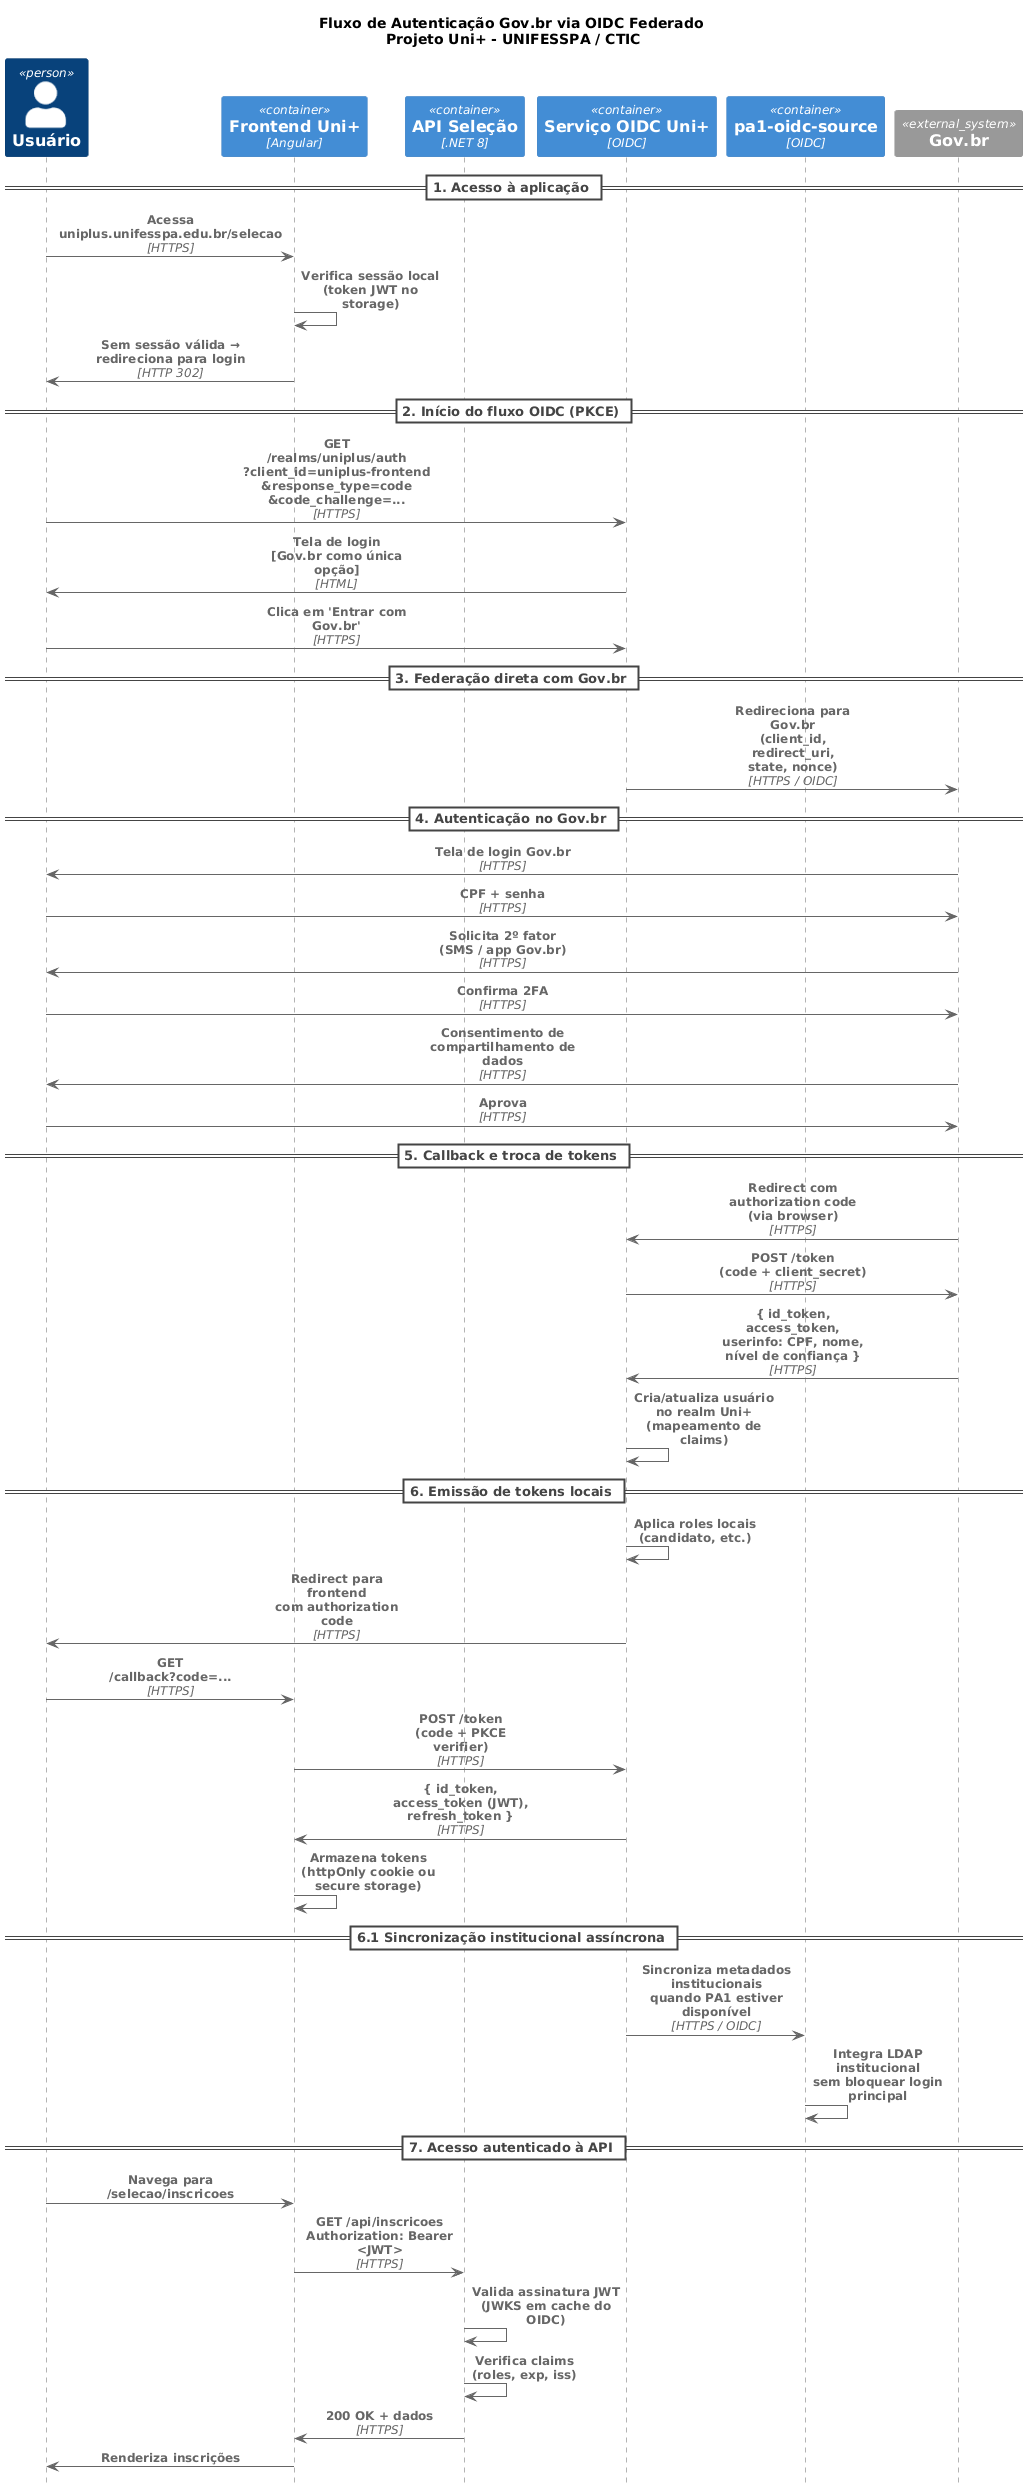
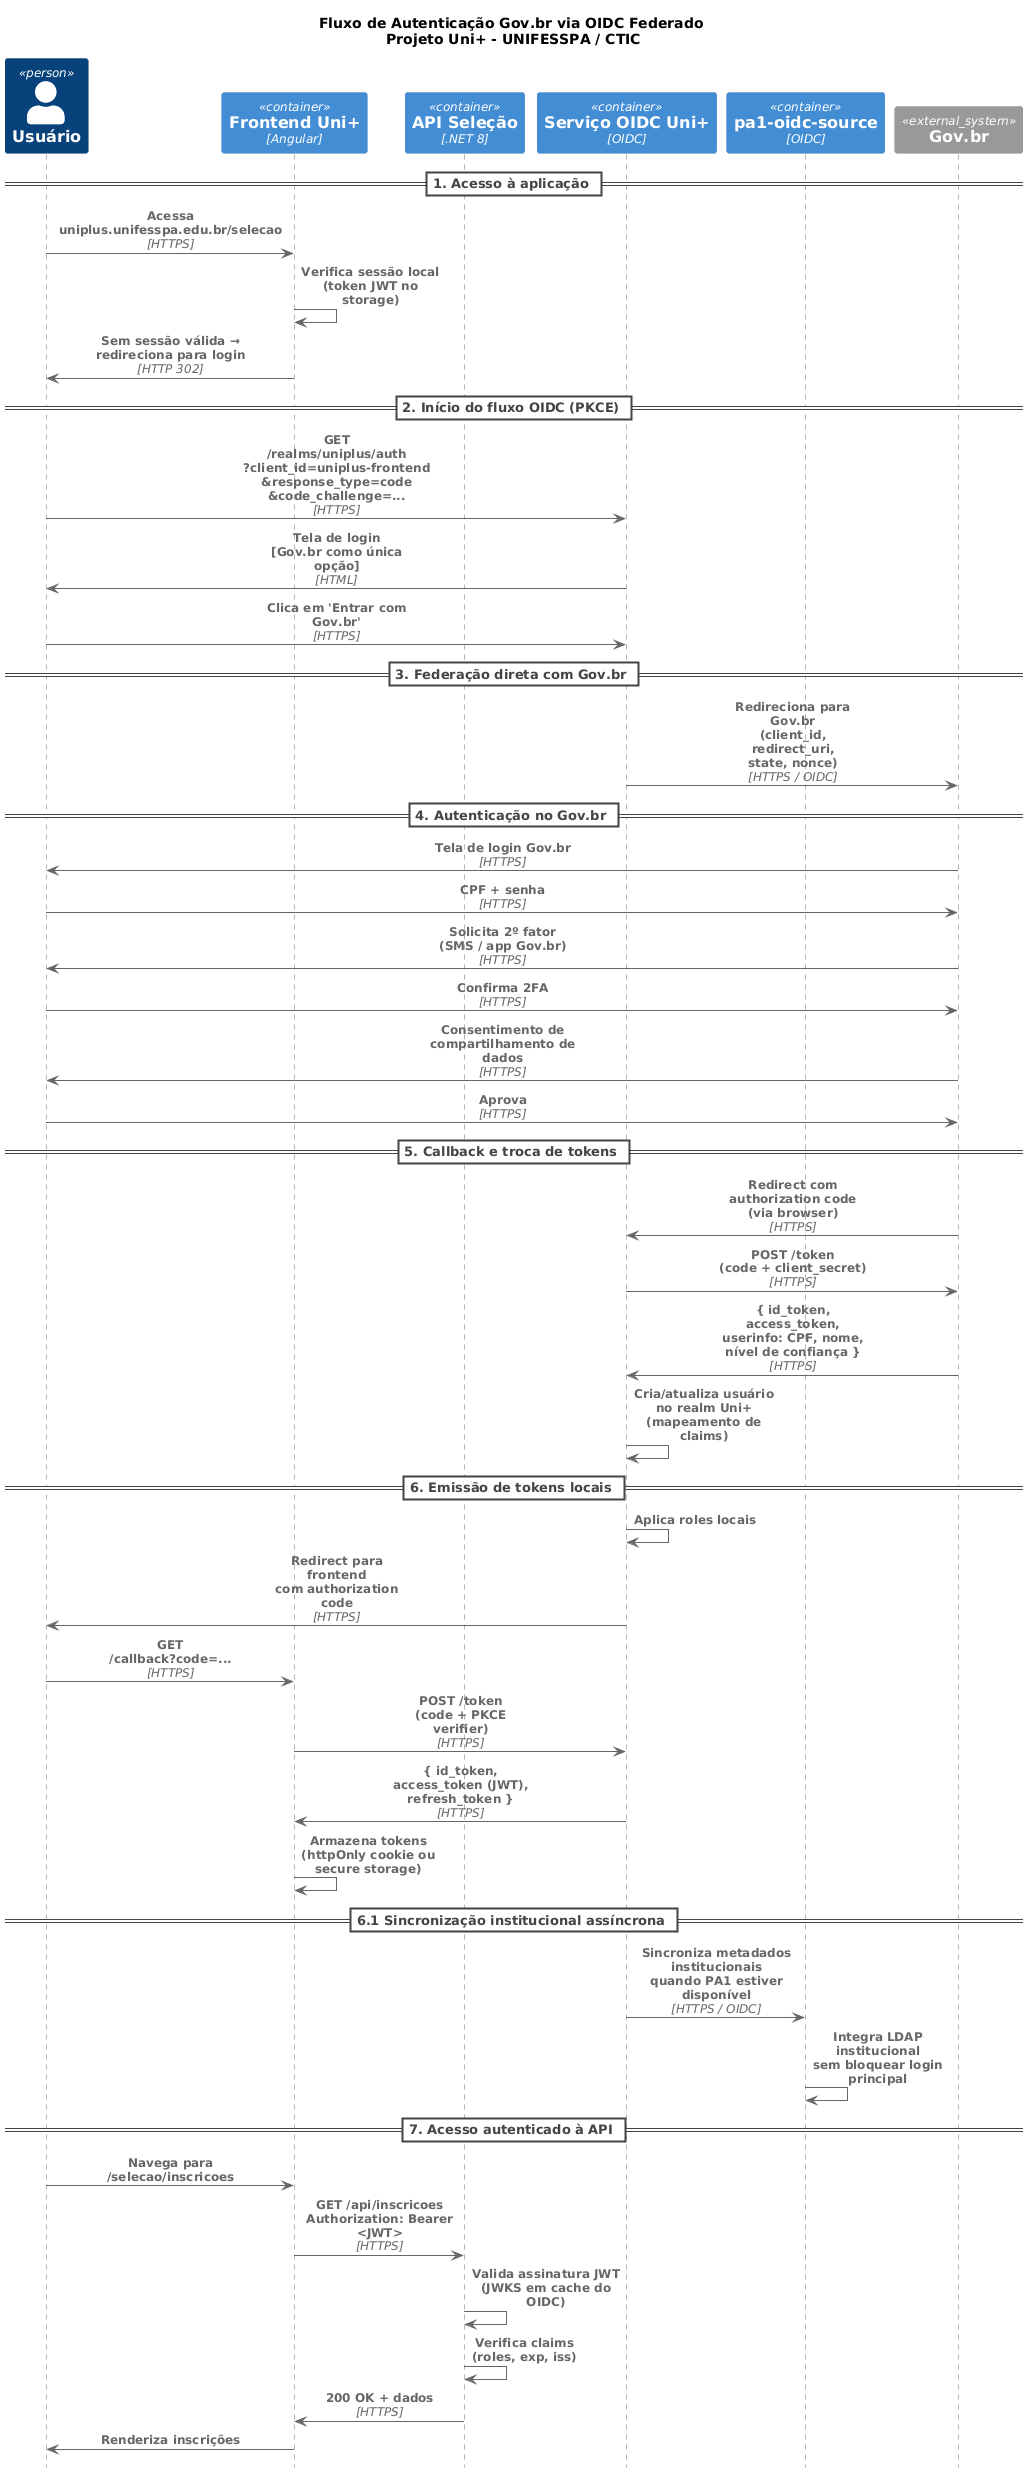
chore(keycloak): retira o papel padrão candidato do realm
Pela ADR-0152 da uniplus-api o login só identifica a pessoa; o acesso vem
das concessões de perfil gravadas no Uni+. O papel candidato era dado a
toda conta pela composição de default-roles e fazia a interface mostrar
"Candidato" para gestores. Com a api#2161 e a web#1332 ninguém mais o lê,
então o papel sai da composição padrão e da lista de papéis do realm.

O realm-reconcile-job roda com IMPORT_MANAGED_ROLE=no-delete e não apaga
o papel do Keycloak. O RUNBOOKS ganha o procedimento para conferir a
composição e apagar o papel pelo kcadm.sh depois do sync. O papel
uniplus-instalacao continua: a política Instalacao depende dele.

Closes #745

diff --git a/docs/RUNBOOKS.md b/docs/RUNBOOKS.md
@@ -1788,6 +1788,41 @@ Standalone usa `letsencrypt-staging` durante a Fase 4–6 (90d, browser warning 
 | Realm import falha com `Could not parse JSON` | Erro de sintaxe no `uniplus-realm.json` ou `${VAR}` referenciando env var não setada | Validar JSON localmente (`jq . files/uniplus-realm.json`); conferir se todos os `UNIPLUS_PORTAL_*` env vars existem no Pod |
 | Pod startupProbe falha após 10min | Postgres lento na 1ª conexão (cold start) ou DB inacessível | `kc logs ... --previous`; conferir `nc -zv 10.2.2.11 5432` do Pod (sem hostNetwork) |
 
+### 10.8 Retirar um papel do realm
+
+O `realm-reconcile-job` roda com `IMPORT_MANAGED_ROLE=no-delete`: tirar um papel do `uniplus-realm.json` não o apaga do Keycloak, e a retirada da composição dos papéis padrão depende de o `keycloak-config-cli` reconciliar os compostos. Depois do sync do ArgoCD, o procedimento abaixo apaga o papel do realm, o que também o tira da composição dos papéis padrão. Pode ser repetido sem efeito. Foi o caso do papel `candidato`, que deixou de ser papel padrão quando a API e a web pararam de ler papel do token ([uniplus-infra#745](https://github.com/unifesspa-edu-br/uniplus-infra/issues/745)).
+
+```bash
+kc() { sudo kubectl --kubeconfig /etc/rancher/k3s/k3s.yaml "$@"; }
+REALM=unifesspa   # keycloak.realmImport.realmName do ambiente (HML: unifesspa; standalone-compact e lab: uniplus)
+PAPEL=candidato
+DEPLOY=$(kc get deploy -n uniplus -l app.kubernetes.io/name=keycloak-replica -o name | head -1)
+
+if [ -z "$DEPLOY" ]; then
+  echo "Deployment do keycloak-replica não encontrado em uniplus"
+else
+  kc exec -n uniplus -i "$DEPLOY" -- bash -s "$REALM" "$PAPEL" <<'EOS'
+set -euo pipefail
+REALM=$1; PAPEL=$2
+KCADM=/opt/keycloak/bin/kcadm.sh
+$KCADM config credentials --server http://localhost:8080/auth --realm master \
+  --user "$KC_BOOTSTRAP_ADMIN_USERNAME" --password "$KC_BOOTSTRAP_ADMIN_PASSWORD"
+
+# Apagar o papel também o retira da composição de default-roles-$REALM e de quem
+# o recebeu por atribuição direta. A listagem fica fora de `if` para que uma
+# falha do kcadm (credencial, rede) interrompa o script em vez de passar por
+# "papel ausente".
+PAPEIS=$($KCADM get roles -r "$REALM" --fields name --format csv --noquotes)
+if grep -qxF "$PAPEL" <<<"$PAPEIS"; then
+  $KCADM delete "roles/$PAPEL" -r "$REALM"
+fi
+echo "papel $PAPEL ausente do realm $REALM e de default-roles-$REALM"
+EOS
+fi
+```
+
+Para conferir, emitir um token novo e verificar que `realm_access.roles` não traz o papel. Tokens emitidos antes continuam com o papel até expirar, mas a API e a web não leem papel do token.
+
 ## 11. Redis (standalone)
 
 Cache local — `redis:8.6.3-alpine` em container Docker gerenciado por systemd no data-host (`10.2.2.11:6379`). Pré-requisito: §9 Postgres systemd ativo (mesmo data-host) + Vault unsealed para custódia da senha.
@@ -4189,9 +4224,9 @@ código.** Investigação em `uniplus-api` (SHA `778e380`) confirmou que todas a
 dos módulos hospedados no Host (Selecao, Configuracao, OrganizacaoInstitucional, Publicacoes) já
 nascem 100% prefixadas (`api/{modulo}/...`, disciplina manual por controller, sem convenção
 central que force isso — ver nota abaixo). Ingresso não tem endpoint algum ainda (só esqueleto de
-domínio/infra). Só 10 rotas (depois de remover `/api/_smoke/*`, ver adiante) não têm prefixo
-algum, porque são registradas uma vez no Host e replicadas identicamente no Portal (mesmo pacote
-compartilhado `Unifesspa.UniPlus.Infrastructure.Core`):
+domínio/infra). Só 9 rotas (depois de remover `/api/_smoke/*`, ver adiante) não têm prefixo
+algum. O `/api/profile/me` é registrado só no Host; as demais vêm do `Program.cs` de cada
+processo:
 
 | Rota | Origem | Decisão de roteamento |
 |---|---|---|
@@ -4200,10 +4235,10 @@ compartilhado `Unifesspa.UniPlus.Infrastructure.Core`):
 | `GET/POST /api/_smoke/*` × 3 | `SmokeEndpointsExtensions` | **Removidas do código** — [uniplus-api#829](https://github.com/unifesspa-edu-br/uniplus-api/issues/829), não precisam mais de decisão de roteamento |
 | `GET /health`, `/health/live`, `/health/ready` | `Program.cs` (`MapHealthChecks`) | **Sem rota no Traefik** — liveness/readiness do Kubernetes batem direto no IP do pod, nunca através do Ingress; não há necessidade de exposição externa |
 
-Autenticação/perfil são preocupação transversal por natureza (não pertencem a nenhum módulo de
+O perfil é preocupação transversal por natureza (não pertence a nenhum módulo de
 negócio específico) — faz sentido o Host, como composition root, ser o dono canônico. Só
 reconsiderar se um módulo/deployable diferente (Portal, Ingresso) precisar de semântica de
-auth/perfil genuinamente independente da do Host — não é o caso hoje.
+perfil genuinamente independente da do Host — não é o caso hoje.
 
 **Nota**: o prefixo `api/{modulo}` dos controllers de negócio é 100% manual (`[Route("api/{modulo}")]`
 por classe) — não há `IControllerModelConvention` nem classe base que force isso. O teste

diff --git a/CHANGELOG.md b/CHANGELOG.md
@@ -15,7 +15,7 @@ e este projeto adere ao [Semantic Versioning](https://semver.org/lang/pt-BR/).
 ### Removido
 
 - Rota `/api/auth` dos prefixos do Host em `hml-standalone-single`: a `uniplus-api#2161` removeu o `GET /api/auth/me`, único endpoint do grupo. `/api/profile` continua com o Host. Issue #745.
-
+- Chart `keycloak-replica` (0.3.5) retira o papel `candidato` da composição de `default-roles-<realm>` e da lista de papéis do realm. O login só identifica a pessoa (ADR-0152 da `uniplus-api`); a política `Candidato` da API identifica o titular pelo CPF desde a v0.47.0. O `realm-reconcile-job` não apaga papel (`IMPORT_MANAGED_ROLE=no-delete`): o RUNBOOKS §10.8 traz a exclusão pelo `kcadm.sh`. Issue #745.
 - Chart `apps/uniplus-api-selecao/` e o wiring correspondente em `environments/lab-standalone-single/` (Task #412, PR#424) — revertidos. A topologia real do backend não é "uma API por módulo de negócio": ADR-0097 do `uniplus-api` (accepted 2026-06-26) define 3 executáveis — Host (`Unifesspa.UniPlus.Host`, absorve Selecao+Ingresso+Configuracao+OrganizacaoInstitucional como class libraries co-hospedadas), Geo e Portal. O módulo Selecao não é mais um deployable separado; não há mais chart Helm dedicado a ele. Refs #395.
 - Limpeza do repositório para focar no `standalone-compact` como único ambiente operacional (2026-05-19): removidos `environments/lab-{sp1,sp2,pa1}`, `environments/prod-{sp1,sp2,pa1}` e `environments/standalone/` (nunca provisionados ou já destruídos); `provisioning/oci/standalone/` (VMs destruídas) e `provisioning/oci/iad-arm/` (exploração ARM Phoenix abandonada); `docs/SETUP.md`, `docs/VALIDATION-PLAN.md`, `docs/network-matrix.md` (laboratório multi-DC nunca executado); `scripts/bootstrap-lab.sh` e `scripts/teardown-lab.sh`.
 
